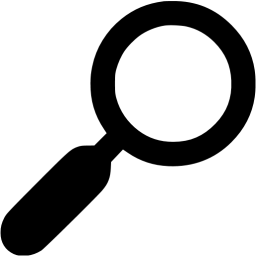
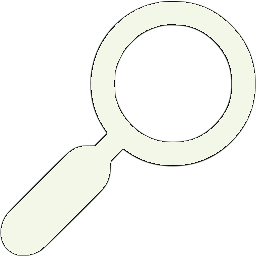
change colors

Changed region(s): [[0.0, 0.0, 1.0, 1.0]]

diff --git a/project/src/main/resources/templates/dashboard.html b/project/src/main/resources/templates/dashboard.html
@@ -8,31 +8,31 @@
 <div class="top-bar">
     <h1>Lancer's Fitness</h1>
     <div class="account-actions">
-        <a th:href="@{/userExercises}" class="btn btn-info">User Exercises</a>
-        <a th:href="@{/account}" class="btn btn-info">Manage Account</a>
-        <a th:href="@{/logout}" class="btn btn-danger">Logout</a>
+        <a th:href="@{/userExercises}" class="btn btn-light">User Exercises</a>
+        <a th:href="@{/account}" class="btn btn-light">Manage Account</a>
+        <a th:href="@{/logout}" class="btn btn-light">Logout</a>
     </div>
 </div>
-<section class="todays-exercises">
-    <h2 class="exercise-description" >Go to Your Workouts</h2>
-    <a th:href="@{/workouts/index}" class="btn btn-primary dashboard-btn">View</a>
+<section class="feature">
+    <h2>Go to Your Workouts</h2>
+    <a th:href="@{/workouts/index}" class="btn btn-light">View</a>
 </section>
 
-<div class="dashboard-container">
-    <section class="dashboard-feature">
-        <h2 class="feature-description">Explore a Dictionary of Exercises: Discover and Create Exercises Just For You</h2>
+<div class="feature">
+    <section class="feature">
+        <h2>Explore a Dictionary of Exercises: Discover and Create Exercises Just For You</h2>
         <img th:src="@{/images/exercise-search.png}" alt="Exercise Search" class="feature-image"/>
-        <a th:href="@{/search}" class="btn btn-primary dashboard-btn">Search</a>
+        <a th:href="@{/search}" class="btn btn-light">Search</a>
     </section>
-    <section class="dashboard-feature">
-        <h2 class="feature-description">Plan Your Power Moves: Personalize Your Exercise Calendar(Feature Unlocked with Premium)</h2>
+    <section class="feature">
+        <h2>Plan Your Power Moves: Personalize Your Exercise Calendar(Feature Unlocked with Premium)</h2>
         <img th:src="@{/images/exercise-schedule.png}" alt="Exercise Schedule" class="feature-image"/>
-        <a th:href="@{/dashboard}" class="btn btn-primary dashboard-btn">Schedule</a>
+        <a th:href="@{/dashboard}" class="btn btn-light">Schedule</a>
     </section>
-    <section class="dashboard-feature">
-        <h2 class="feature-description">Celebrate Your Success: Track Your Fitness Journey and Celebrate Your Progress</h2>
+    <section class="feature">
+        <h2>Celebrate Your Success: Track Your Fitness Journey and Celebrate Your Progress</h2>
         <img th:src="@{/images/progress-tracking.png}" alt="Progress Tracking" class="feature-image"/>
-        <a th:href="@{/records/index}" class="btn btn-primary dashboard-btn">Track</a>
+        <a th:href="@{/records/index}" class="btn btn-light">Track</a>
     </section>
 </div>
 <section class="footerSpace"> </section>

diff --git a/project/src/main/resources/static/css/bootstrap.css b/project/src/main/resources/static/css/bootstrap.css
@@ -29,12 +29,22 @@ color: black;
 }
 
 .footer {
-    flex-shrink: 0;
-
-    background-color: #1C0D14;
+    color: #dae0eb;
+    /*position: absolute;*/
+    bottom: 0;
+    height: 2.5rem;
     text-align: center;
-    padding: 10px 0;
+    margin-top: 600px;
     width: 100%;
+}
+
+#page-container {
+  position: relative;
+  min-height: 100vh;
+}
+
+#content-wrap {
+  padding-bottom: 2.5rem;    /* Footer height */
 }
 
 .top-bar {
@@ -42,11 +52,12 @@ color: black;
     justify-content: space-between;
     align-items: center;
     padding: 10px;
-    background-color: #1C0D14;
+    /*background-color: #1C0D14;*/
     width: 100%;
 }
 .top-bar h1 {
-    font-family:  Impact,Haettenschweiler,Franklin Gothic Bold,Charcoal,Helvetica Inserat,Bitstream Vera Sans Bold,Arial Black,sans serif;
+    font-family: "Goudy Bookletter 1911", sans-serif;
+    color: #dae0eb;
     margin: 0;
 }
 
@@ -61,6 +72,7 @@ color: black;
 }
 .feature {
     text-align: center;
+    color: #dae0eb;
     padding: 20px;
 }
 
@@ -78,6 +90,7 @@ color: black;
 }
 
 .feature-image {
+    color: #dae0eb;
     max-width: 75px;
     width: 100%;
     height: auto;
@@ -337,31 +350,31 @@ th {
 
 
 .mini-guide {
-            width: 120px;
-            background-color: #333;
-            color: #fff;
-            display: flex;
-            flex-direction: column;
-            align-items: left;
-            padding-top: 10px;
-            position:absolute;
-            left:10px;
-            top:80px;
-            margin-top: 100px;
-        }
+    width: 120px;
+    background-color: #300407;
+    color: #fff;
+    display: flex;
+    flex-direction: column;
+    align-items: left;
+    padding-top: 10px;
+    position:absolute;
+    left:10px;
+    top:80px;
+    margin-top: 100px;
+}
 
-        .mini-guide-entry {
-            text-decoration: none;
-            color: #fff;
-            text-align: center;
-            padding: 10px;
-            margin-bottom: 10px;
-            transition: background-color 0.3s ease;
-        }
+.mini-guide-entry {
+    text-decoration: none;
+    color: #fff;
+    text-align: center;
+    padding: 10px;
+    margin-bottom: 10px;
+    transition: background-color 0.3s ease;
+}
 
-        .mini-guide-entry:hover {
-            background-color: #555;
-        }
+.mini-guide-entry:hover {
+    background-color: #555;
+}
 .container {
 text-align: center;
 }
@@ -477,4 +490,17 @@ text-align: left;
 .create-container{
 margin: -340px 500px 90px 0px;
 
+}
+
+.btn-light {
+margin-top: 25px;
+}
+
+
+h2{
+color: #dae0eb;
+}
+
+h1 {
+color: #dae0eb;
 }

diff --git a/project/src/main/resources/templates/workouts/index.html b/project/src/main/resources/templates/workouts/index.html
@@ -5,13 +5,14 @@
     <title>Your Workouts</title>
 </head>
 <body>
+
 <div th:replace="~{fragments :: top-bar}"></div>
 
 <div th:replace="~{fragments :: mini-guide}"></div>
 <div>
     <p th:unless="${workouts} and ${workouts.size()}">You have no saved workouts.</p>
     <div>
-        <h2 th:if="${workouts} and ${workouts.size()}" class="BigNBold">Workouts</h2>
+        <h2 th:if="${workouts} and ${workouts.size()}">Workouts</h2>
         <ul class="no-bullets">
             <li th:each="workoutb : ${workouts}" class="BigNBold">
                 <a th:href="@{'/workouts/view/' + ${workoutb.id}}" th:text="${workoutb.name}" class="workout-entry"></a>
@@ -24,6 +25,7 @@
     </div>
 
 </div>
-<div class="footer" th:replace="fragments :: footer"></div>
+
+<div th:replace="fragments :: footer"></div>
 </body>
 </html>

diff --git a/project/src/main/resources/templates/fragments.html b/project/src/main/resources/templates/fragments.html
@@ -24,10 +24,10 @@
 <div th:fragment="top-bar" class="top-bar">
     <h1>Lancer's Fitness</h1>
     <div class="account-actions">
-        <a th:href="@{/userExercises}" class="btn btn-info">User Exercises</a>
-        <a th:href="@{/dashboard}" class="btn btn-info">Dashboard</a>
-        <a th:href="@{/account}" class="btn btn-info">Manage Account</a>
-        <a th:href="@{/logout}" class="btn btn-danger">Logout</a>
+        <a th:href="@{/userExercises}" class="btn btn-light">User Exercises</a>
+        <a th:href="@{/dashboard}" class="btn btn-light">Dashboard</a>
+        <a th:href="@{/account}" class="btn btn-light">Manage Account</a>
+        <a th:href="@{/logout}" class="btn btn-light">Logout</a>
     </div>
 </div>
 

diff --git a/project/src/main/resources/templates/homepage.html b/project/src/main/resources/templates/homepage.html
@@ -10,8 +10,8 @@
 
     <h1 >Lancer's Fitness</h1>
     <div class="button-container">
-    <a th:href="@{/login}" class="btn btn-primary">Login</a>
-    <a th:href="@{/register}" class="btn btn-primary">Register</a>
+    <a th:href="@{/login}" class="btn btn-light">Login</a>
+    <a th:href="@{/register}" class="btn btn-light">Register</a>
     </div>
 
 </div>
